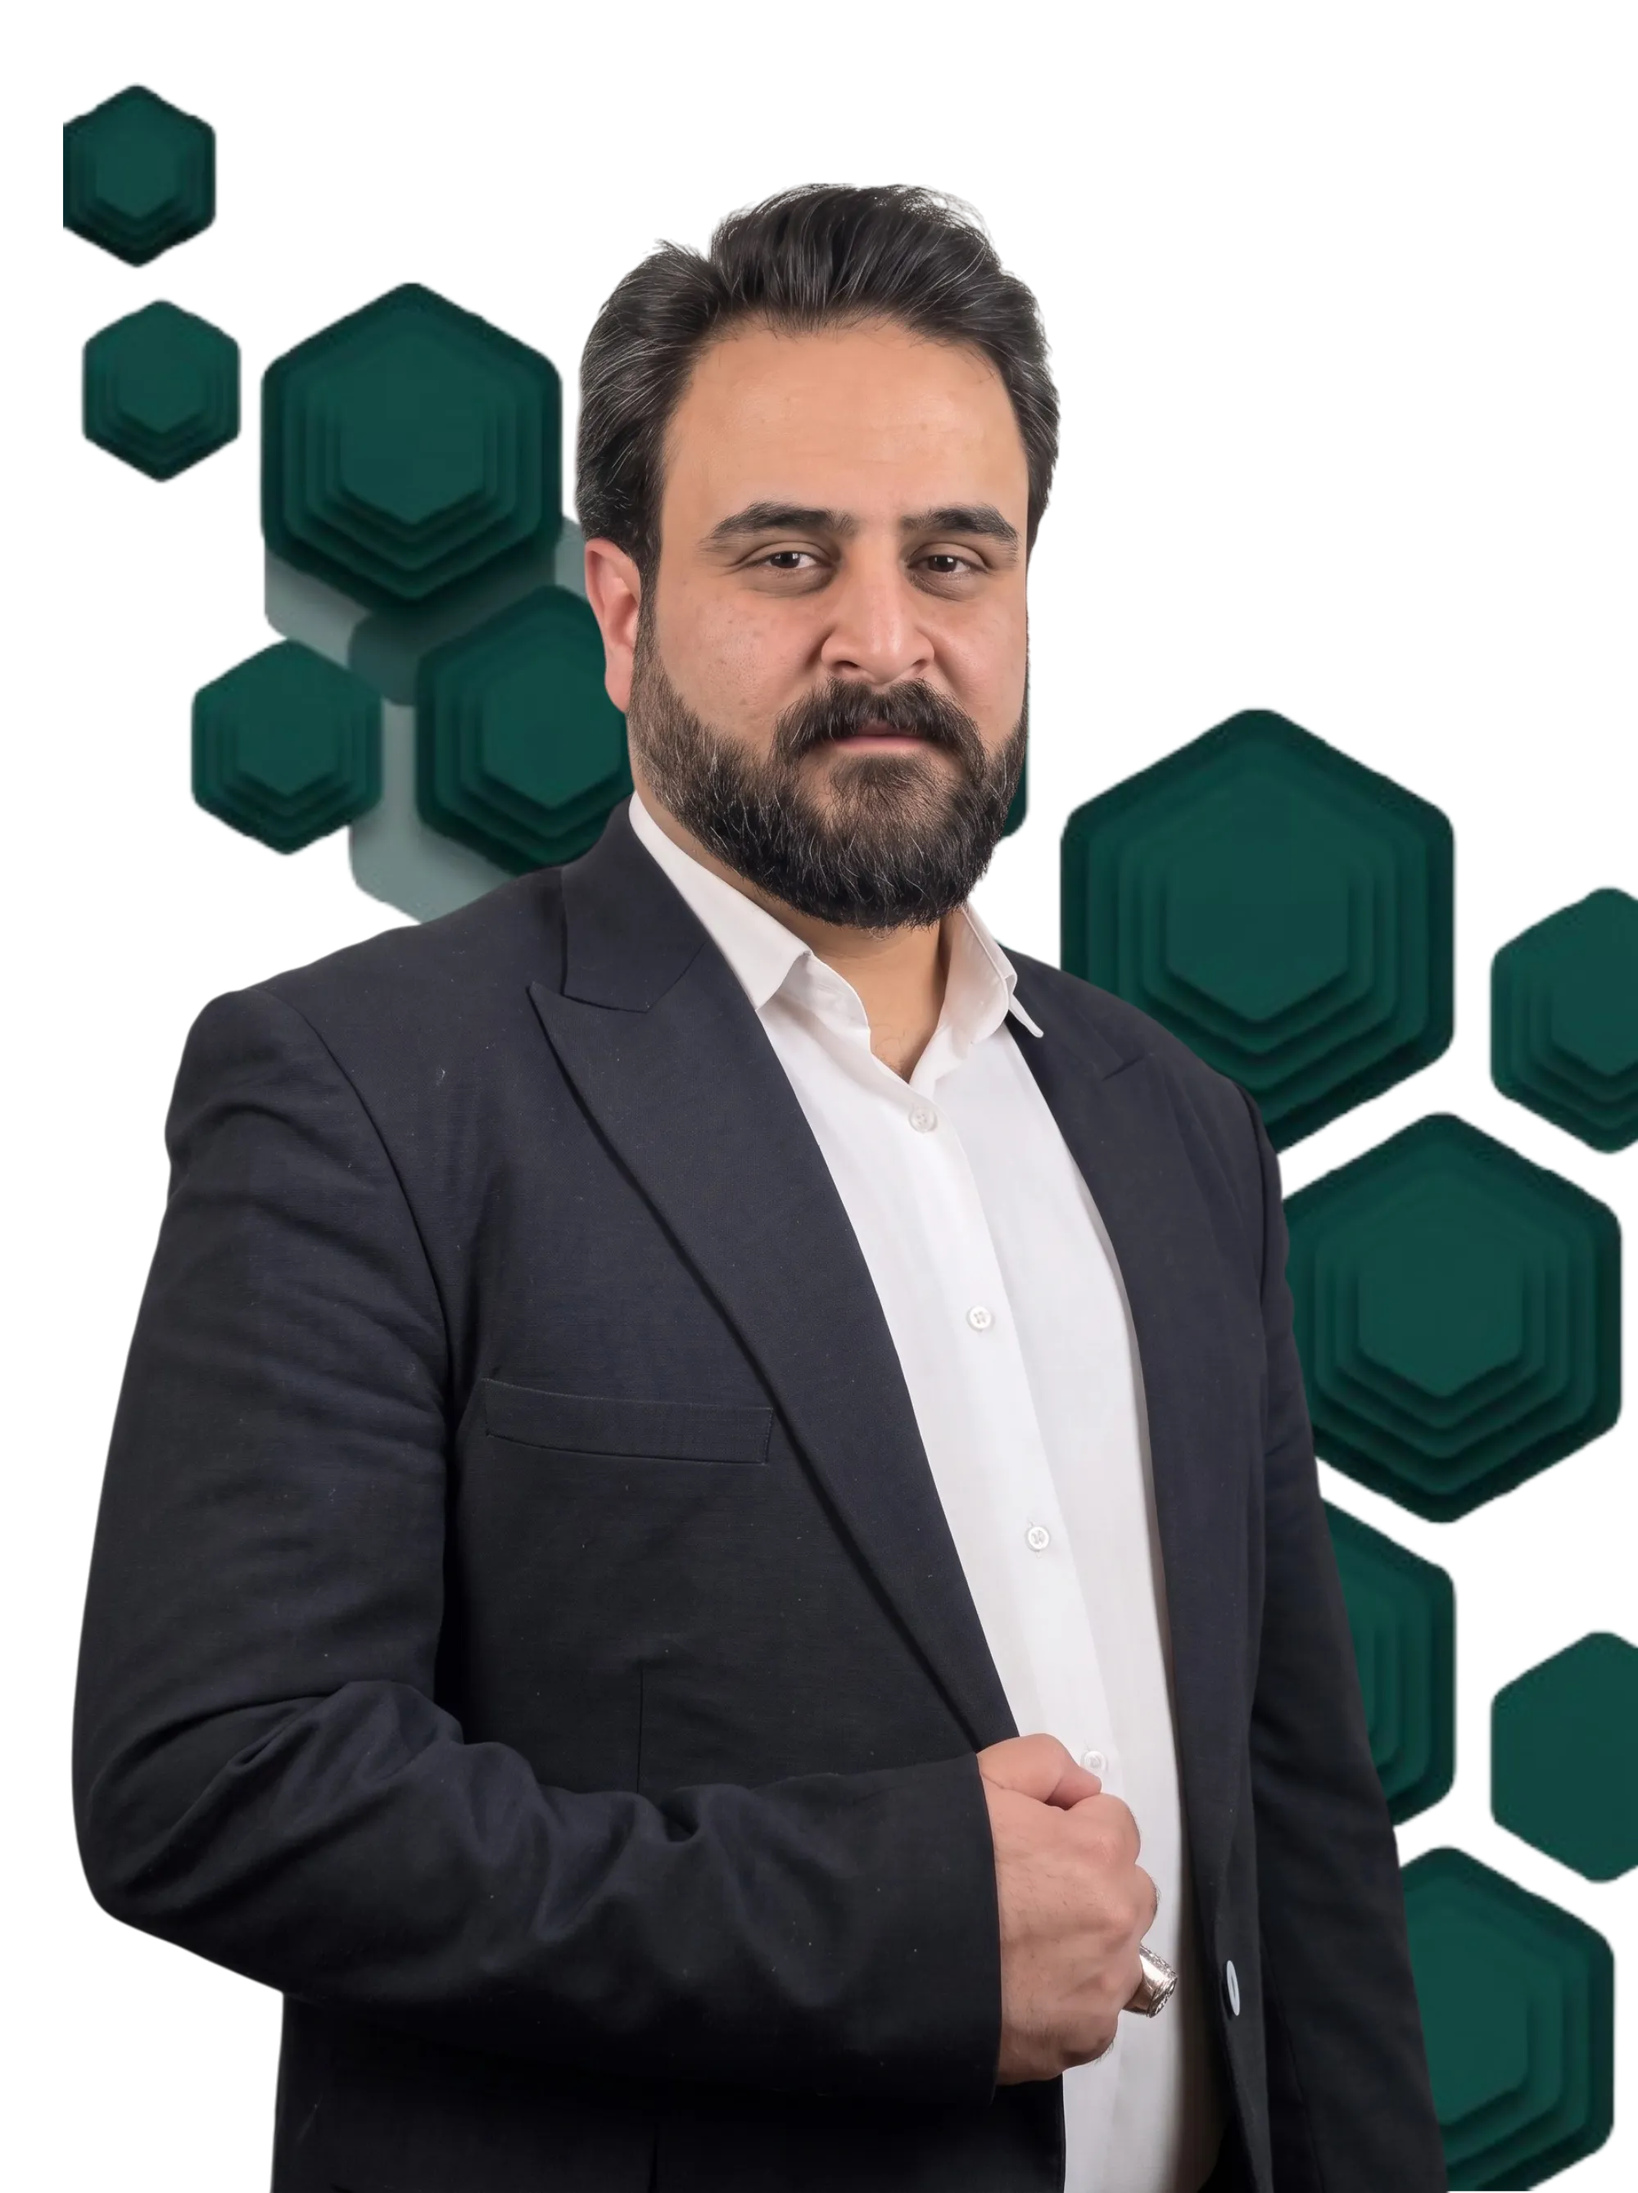
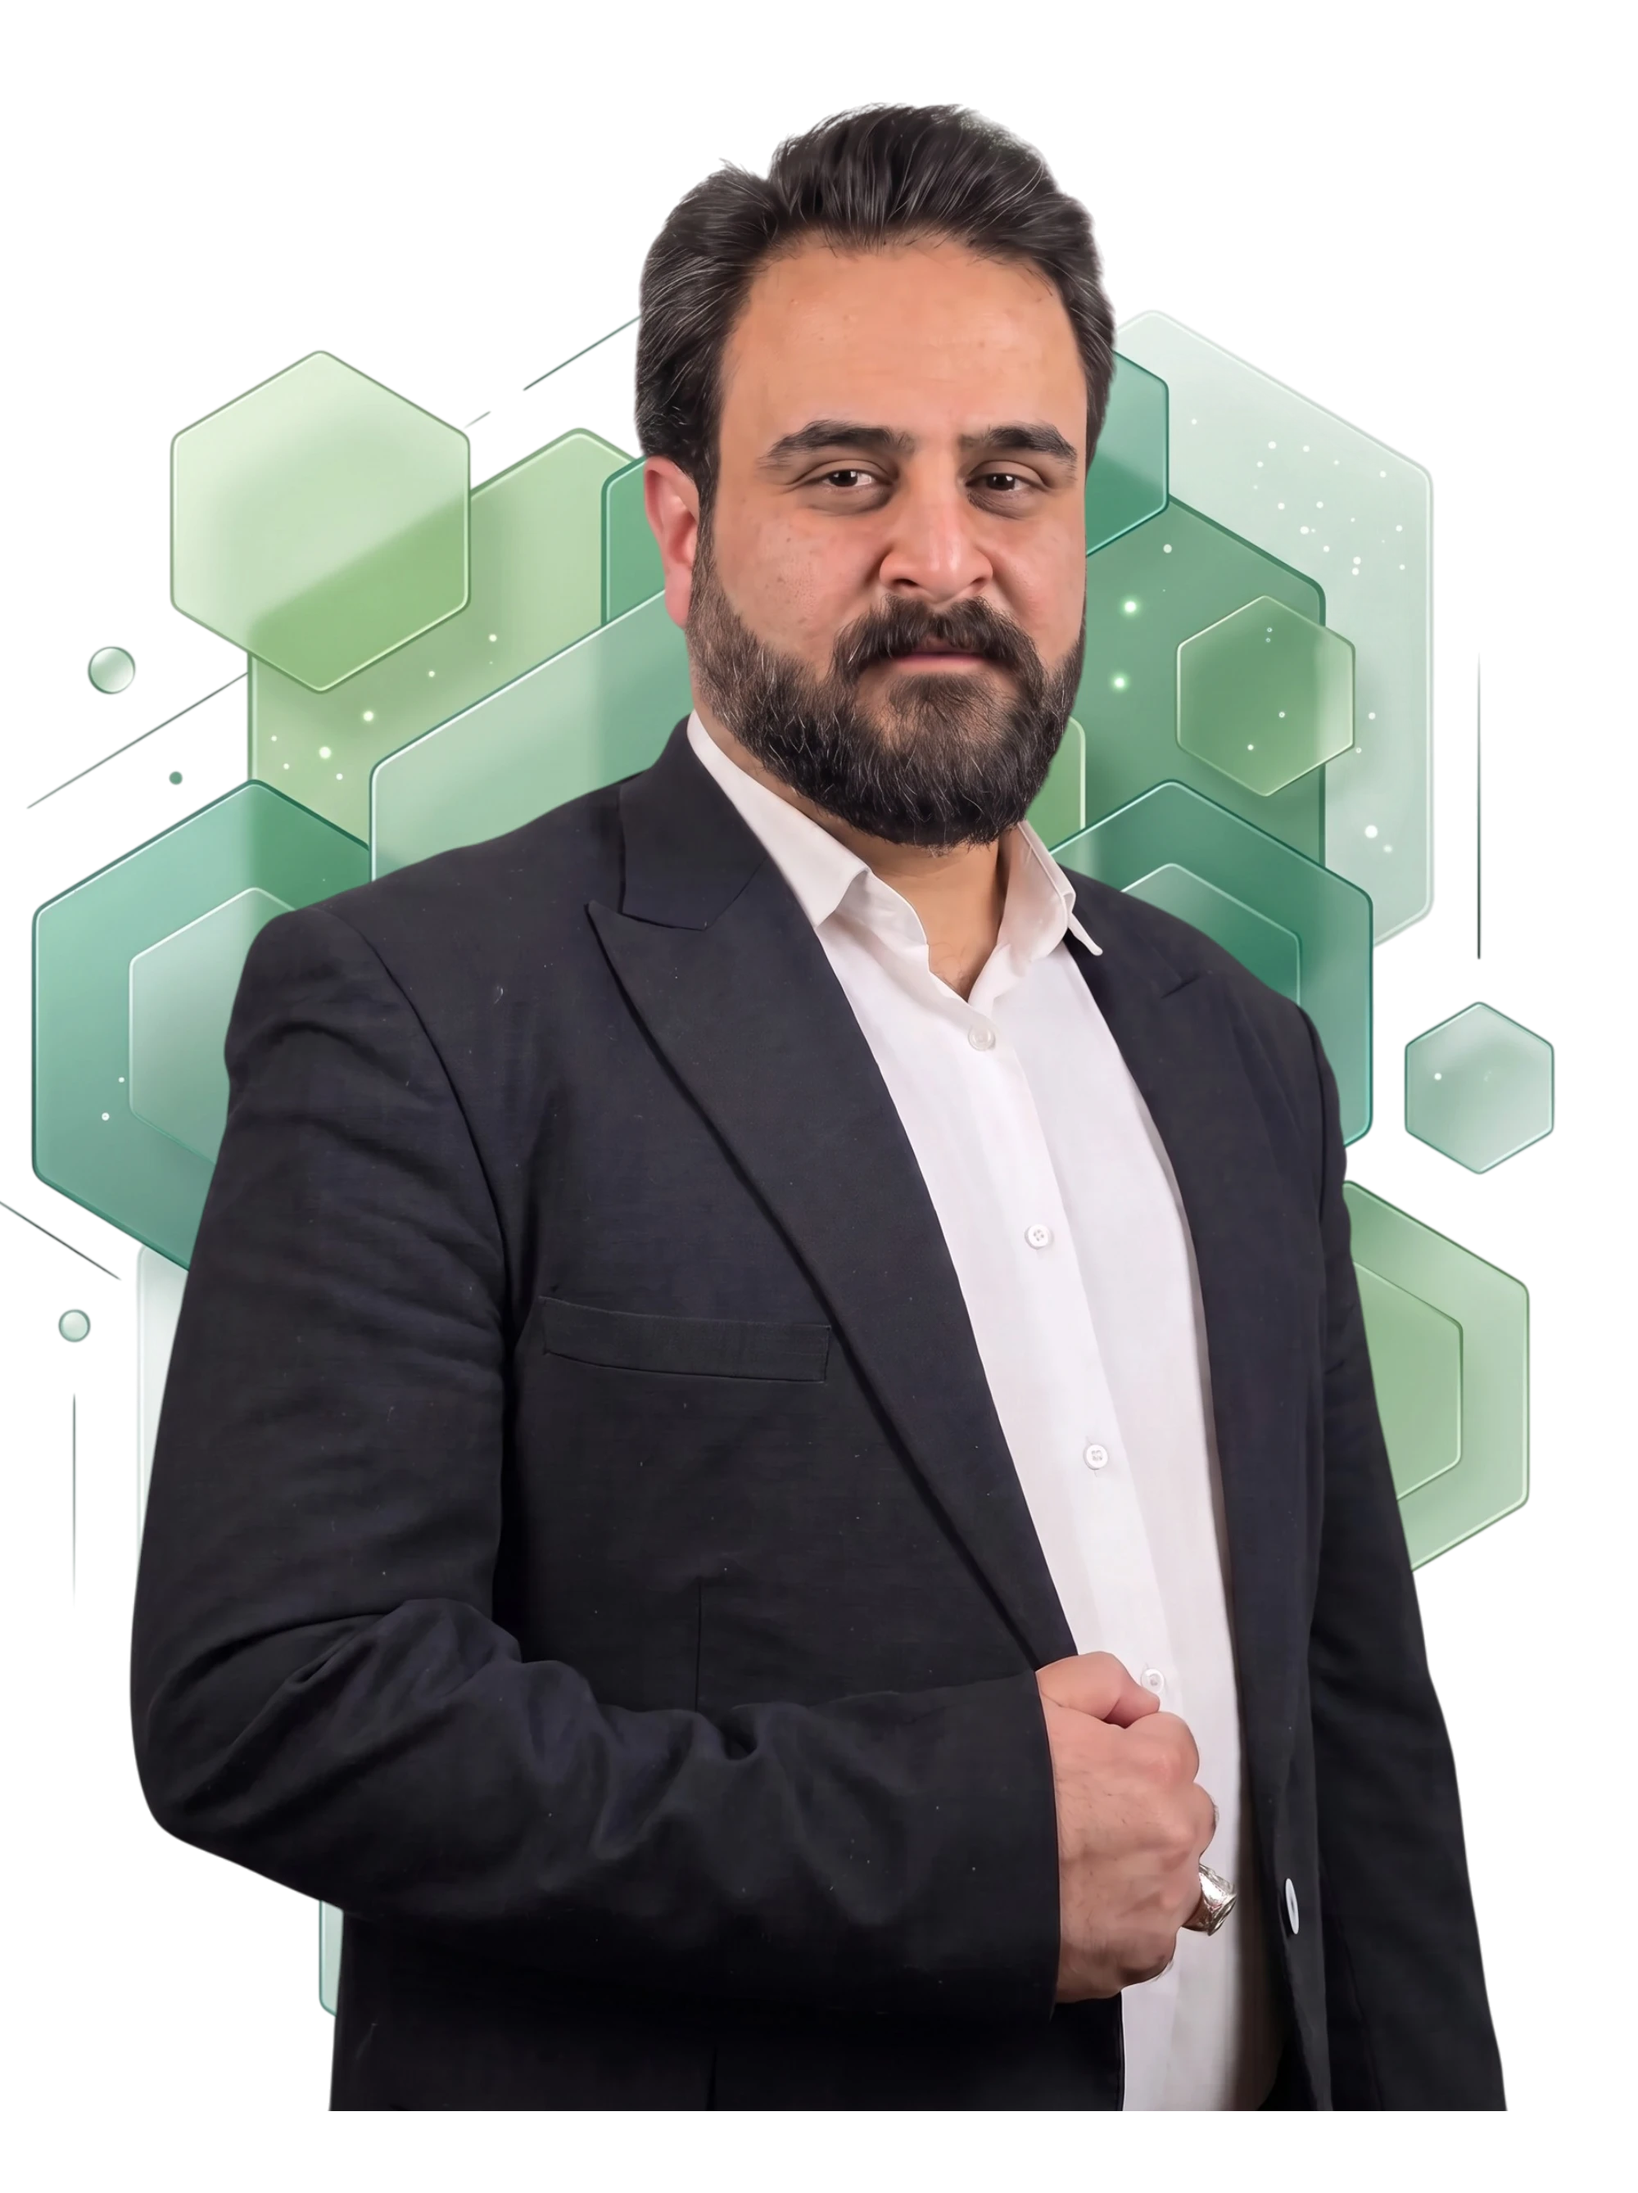
feat(about): update hero assets and footer UI
Update hero typography and portrait images for the about page, enhance the footer layout with new icons and descriptions, and refine the hero statistics styling.

diff --git a/web/static/css/style.css b/web/static/css/style.css
@@ -1516,44 +1516,191 @@ html.nav-locked, body.nav-sheet-open { overflow: hidden; }
 .contact-form input::placeholder, .contact-form textarea::placeholder { color: #b0aab6; }
 .primary-button { display: inline-flex; align-items: center; justify-content: center; gap: 10px; width: fit-content; min-width: 150px; padding: 14px 20px; color: white; background: var(--violet); border: 0; border-radius: 8px; font: inherit; font-size: 12px; cursor: pointer; transition: background .2s ease, transform .2s ease; }
 .primary-button:hover { background: var(--violet-dark); transform: translateY(-2px); }
-/* ===== فوتر - لیکوئید گلس (مشابه صفحه درباره) ===== */
+/* ===== فوتر - سبک سازمانی زمردی (Emerald Glass Footer) ===== */
 .site-footer {
     position: relative;
     z-index: 5;
     overflow: hidden;
-    padding: 70px 0 28px;
-    color: white;
+    padding: 72px 0 32px;
+    color: #e2ece7;
     background:
-        radial-gradient(140% 120% at 15% -10%, rgba(185, 138, 69, .28) 0%, transparent 46%),
-        radial-gradient(120% 120% at 90% 115%, rgba(115, 209, 204, .14) 0%, transparent 52%),
-        linear-gradient(165deg, rgba(3, 52, 49, .97) 0%, rgba(2, 42, 40, .94) 100%);
+        radial-gradient(130% 110% at 20% -10%, rgba(16, 185, 129, .14) 0%, transparent 55%),
+        radial-gradient(110% 110% at 85% 115%, rgba(52, 211, 153, .1) 0%, transparent 55%),
+        linear-gradient(165deg, #033431 0%, #022A28 100%);
     backdrop-filter: blur(16px);
     -webkit-backdrop-filter: blur(16px);
-    border-top: 1px solid rgba(255, 255, 255, .14);
-    box-shadow: 0 -34px 70px rgba(2, 42, 40, .35), inset 0 1px 0 rgba(255, 255, 255, .08);
+    border-top: 1px solid rgba(52, 211, 153, .22);
+    box-shadow: 0 -28px 60px rgba(2, 42, 40, .45), inset 0 1px 0 rgba(255, 255, 255, .08);
 }
 .site-footer::before {
     content: '';
     position: absolute;
-    inset: 0;
+    top: 0;
+    left: 0;
+    right: 0;
+    height: 1px;
+    background: linear-gradient(90deg, transparent 0%, rgba(52, 211, 153, .5) 50%, transparent 100%);
     pointer-events: none;
-    background: linear-gradient(135deg, rgba(255, 255, 255, .06), transparent 42%);
 }
-.footer-shell { width: min(1120px, calc(100% - 48px)); margin: auto; position: relative; z-index: 1; }
-.footer-main { display: grid; grid-template-columns: 1.5fr 1fr auto; align-items: center; gap: 40px; padding-bottom: 50px; }
-.footer-brand { display: inline-flex; align-items: center; color: white; font-size: 26px; font-weight: 900; letter-spacing: -.01em; }
-.footer-brand span { margin-right: 5px; color: var(--gold-light); }
-.footer-main p { margin: 12px 0 0; color: #c6d8d0; font-size: 11px; line-height: 1.9; }
-.footer-links { display: flex; flex-wrap: wrap; gap: 10px; font-size: 11px; }
-.footer-links a { display: inline-flex; align-items: center; padding: 9px 15px; color: #dbe9e2; background: rgba(255, 255, 255, .05); border: 1px solid rgba(255, 255, 255, .14); border-radius: 999px; backdrop-filter: blur(6px); -webkit-backdrop-filter: blur(6px); transition: background .25s ease, border-color .25s ease, transform .25s ease; }
-.footer-links a:hover { color: white; background: rgba(185, 138, 69, .32); border-color: rgba(185, 138, 69, .6); transform: translateY(-2px); }
-.footer-social { display: flex; gap: 10px; direction: ltr; }
-.footer-social a { width: 38px; height: 38px; display: grid; place-items: center; color: #e2ece5; background: rgba(255, 255, 255, .08); border: 1px solid rgba(255, 255, 255, .2); border-radius: 50%; box-shadow: inset 0 1px 0 rgba(255, 255, 255, .25); backdrop-filter: blur(8px); -webkit-backdrop-filter: blur(8px); transition: background .25s ease, border-color .25s ease, transform .25s ease; }
-.footer-social a:hover { color: white; background: rgba(185, 138, 69, .3); border-color: rgba(185, 138, 69, .55); transform: translateY(-2px); }
-.footer-social svg { width: 15px; height: 15px; }
-.footer-bottom { display: flex; justify-content: space-between; flex-wrap: wrap; gap: 12px; padding-top: 20px; color: #9fc0b3; border-top: 1px solid rgba(255, 255, 255, .12); font-size: 10px; }
-.footer-bottom a { color: #dbe9e2; text-decoration: none; transition: color .25s ease; }
-.footer-bottom a:hover { color: white; text-decoration: underline; }
+.footer-shell {
+    width: min(1120px, calc(100% - 48px));
+    margin: auto;
+    position: relative;
+    z-index: 1;
+}
+.footer-main {
+    display: grid;
+    grid-template-columns: 1.4fr 1.1fr auto;
+    align-items: center;
+    gap: 48px;
+    padding-bottom: 48px;
+}
+.footer-brand-wrap {
+    display: flex;
+    flex-direction: column;
+    gap: 10px;
+}
+.footer-brand {
+    display: inline-flex;
+    align-items: center;
+    color: #ffffff;
+    font-size: 28px;
+    font-weight: 900;
+    letter-spacing: -.02em;
+    text-decoration: none;
+    transition: opacity .25s ease;
+}
+.footer-brand:hover {
+    opacity: .92;
+}
+.footer-brand span {
+    margin-right: 4px;
+    color: #34d399;
+}
+.footer-main p {
+    margin: 0;
+    color: #a3c4b6;
+    font-size: 13px;
+    line-height: 1.95;
+    max-width: 380px;
+}
+.footer-links {
+    display: flex;
+    flex-wrap: wrap;
+    gap: 10px;
+    font-size: 12px;
+}
+.footer-links a {
+    display: inline-flex;
+    align-items: center;
+    gap: 7px;
+    padding: 10px 18px;
+    color: #d1e5dc;
+    background: rgba(255, 255, 255, .04);
+    border: 1px solid rgba(52, 211, 153, .18);
+    border-radius: 999px;
+    backdrop-filter: blur(6px);
+    -webkit-backdrop-filter: blur(6px);
+    text-decoration: none;
+    font-weight: 600;
+    transition: all .25s cubic-bezier(0.16, 1, 0.3, 1);
+}
+.footer-links a svg {
+    width: 14px;
+    height: 14px;
+    color: #34d399;
+    transition: transform .25s ease;
+}
+.footer-links a:hover {
+    color: #ffffff;
+    background: rgba(16, 185, 129, .22);
+    border-color: rgba(52, 211, 153, .5);
+    transform: translateY(-2px);
+    box-shadow: 0 6px 20px rgba(2, 42, 40, .35);
+}
+.footer-links a:hover svg {
+    transform: scale(1.1);
+}
+.footer-social {
+    display: flex;
+    gap: 12px;
+    direction: ltr;
+}
+.footer-social a {
+    width: 42px;
+    height: 42px;
+    display: grid;
+    place-items: center;
+    color: #d1e5dc;
+    background: rgba(255, 255, 255, .05);
+    border: 1px solid rgba(52, 211, 153, .2);
+    border-radius: 50%;
+    box-shadow: inset 0 1px 0 rgba(255, 255, 255, .15);
+    backdrop-filter: blur(8px);
+    -webkit-backdrop-filter: blur(8px);
+    text-decoration: none;
+    transition: all .25s cubic-bezier(0.16, 1, 0.3, 1);
+}
+.footer-social a:hover {
+    color: #ffffff;
+    background: rgba(16, 185, 129, .25);
+    border-color: rgba(52, 211, 153, .55);
+    transform: translateY(-3px);
+    box-shadow: 0 8px 24px rgba(2, 42, 40, .45);
+}
+.footer-social svg {
+    width: 17px;
+    height: 17px;
+}
+.footer-bottom {
+    display: flex;
+    justify-content: space-between;
+    align-items: center;
+    flex-wrap: wrap;
+    gap: 16px;
+    padding-top: 24px;
+    color: #81a898;
+    border-top: 1px solid rgba(255, 255, 255, .08);
+    font-size: 11px;
+}
+.footer-copyright {
+    display: flex;
+    align-items: center;
+    flex-wrap: wrap;
+    gap: 8px;
+}
+.footer-divider {
+    opacity: .5;
+}
+.footer-bottom a {
+    color: #34d399;
+    text-decoration: none;
+    font-weight: 600;
+    transition: color .25s ease, text-decoration .25s ease;
+}
+.footer-bottom a:hover {
+    color: #6ee7b7;
+    text-decoration: underline;
+}
+.footer-badge {
+    display: inline-flex;
+    align-items: center;
+    gap: 8px;
+    padding: 5px 12px;
+    background: rgba(52, 211, 153, .08);
+    border: 1px solid rgba(52, 211, 153, .2);
+    border-radius: 999px;
+    color: #a3c4b6;
+    font-size: 10px;
+    font-weight: 500;
+}
+.footer-status-dot {
+    width: 6px;
+    height: 6px;
+    background: #34d399;
+    border-radius: 50%;
+    box-shadow: 0 0 8px rgba(52, 211, 153, .8);
+}
 
 @media (max-width: 800px) {
     .section-shell, .footer-shell { width: calc(100% - 32px); }

diff --git a/web/static/css/about.css b/web/static/css/about.css
@@ -586,42 +586,48 @@
 
 /* Stat strip under visual portrait */
 .hero__visual-stats {
+    position: relative;
+    z-index: 4;
     width: 100%;
     max-width: 500px;
-    margin-top: 4px;
+    margin-top: -48px;
 }
 
 .stat-strip {
+    position: relative;
+    z-index: 4;
     display: grid;
     grid-template-columns: 1fr auto 1fr auto 1fr;
     align-items: center;
     gap: 14px;
-    padding: 16px 22px;
-    border-radius: 20px;
-    background: linear-gradient(135deg, rgba(255, 255, 255, 0.94) 0%, rgba(255, 255, 255, 0.76) 100%);
-    backdrop-filter: blur(24px) saturate(1.8);
-    -webkit-backdrop-filter: blur(24px) saturate(1.8);
-    border: 1px solid rgba(216, 178, 115, 0.45);
+    padding: 18px 24px;
+    border-radius: 22px;
+    background: linear-gradient(135deg, rgba(255, 255, 255, 0.96) 0%, rgba(248, 250, 246, 0.88) 100%);
+    backdrop-filter: blur(28px) saturate(1.9);
+    -webkit-backdrop-filter: blur(28px) saturate(1.9);
+    border: 1px solid rgba(216, 178, 115, 0.55);
     box-shadow:
         inset 0 1px 0 rgba(255, 255, 255, 1),
-        inset 0 -1px 0 rgba(216, 178, 115, 0.18),
-        0 18px 40px rgba(3, 52, 49, 0.08);
-    transition: transform 0.3s ease, box-shadow 0.3s ease, border-color 0.3s ease;
+        inset 0 -1px 0 rgba(216, 178, 115, 0.22),
+        0 20px 48px -10px rgba(3, 52, 49, 0.12),
+        0 4px 14px rgba(0, 0, 0, 0.03);
+    transition: transform 0.35s cubic-bezier(0.16, 1, 0.3, 1), box-shadow 0.35s ease, border-color 0.35s ease;
 }
 
 .stat-strip:hover {
-    transform: translateY(-2px);
-    border-color: rgba(216, 178, 115, 0.7);
+    transform: translateY(-4px);
+    border-color: rgba(216, 178, 115, 0.8);
     box-shadow:
         inset 0 1px 0 rgba(255, 255, 255, 1),
-        0 22px 48px rgba(3, 52, 49, 0.12);
+        inset 0 -1px 0 rgba(216, 178, 115, 0.3),
+        0 26px 56px -10px rgba(3, 52, 49, 0.16);
 }
 
 .stat-strip__item {
     display: flex;
     flex-direction: column;
     align-items: center;
-    gap: 3px;
+    gap: 4px;
     text-align: center;
 }
 
@@ -630,31 +636,32 @@
     align-items: baseline;
     gap: 2px;
     font-family: Georgia, serif;
-    font-size: 30px;
+    font-size: 32px;
     font-weight: 800;
     color: var(--green);
     line-height: 1;
     direction: rtl;
+    letter-spacing: -0.5px;
 }
 
 .stat-strip__value small {
     color: var(--gold);
-    font-size: 18px;
+    font-size: 19px;
     font-weight: 700;
 }
 
 .stat-strip__label {
-    font-size: 10px;
-    font-weight: 800;
+    font-size: 11px;
+    font-weight: 700;
     letter-spacing: 0.2px;
-    color: var(--muted);
+    color: #4b6360;
     white-space: nowrap;
 }
 
 .stat-strip__sep {
     width: 1px;
-    height: 34px;
-    background: linear-gradient(180deg, transparent, rgba(216, 178, 115, 0.45), transparent);
+    height: 36px;
+    background: linear-gradient(180deg, transparent, rgba(216, 178, 115, 0.55), transparent);
 }
 
 /* Hero scroll */
